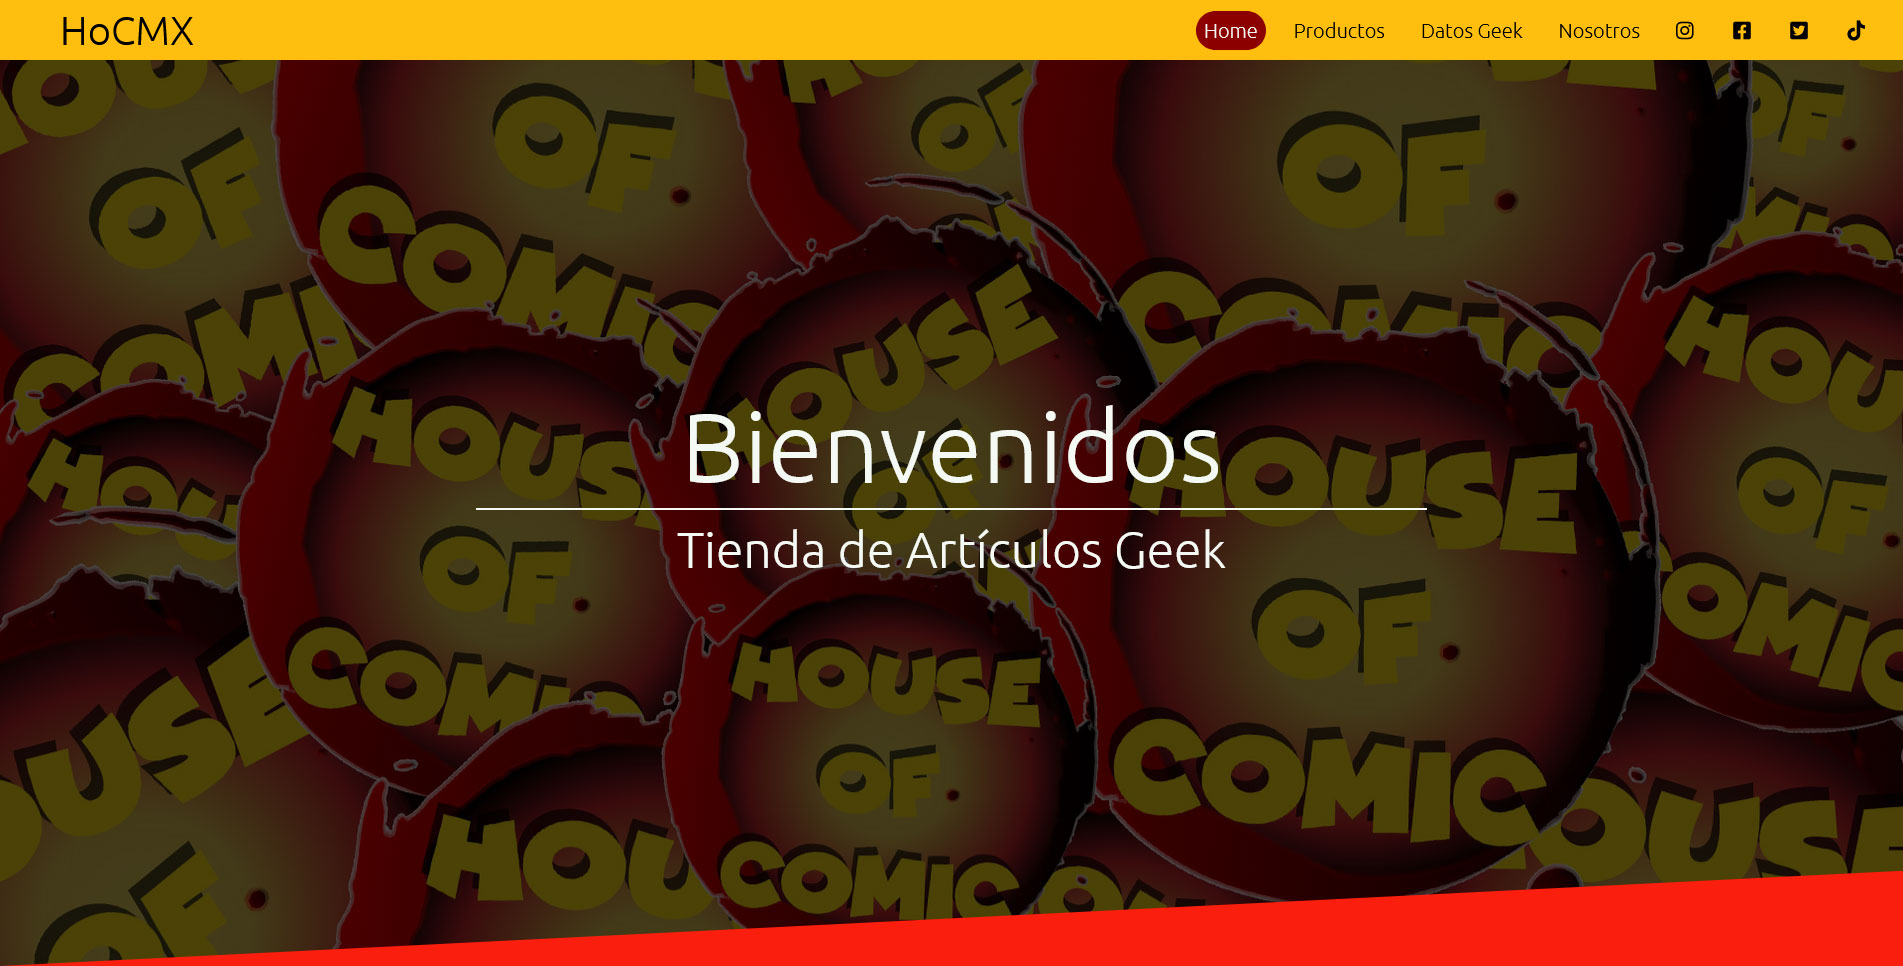
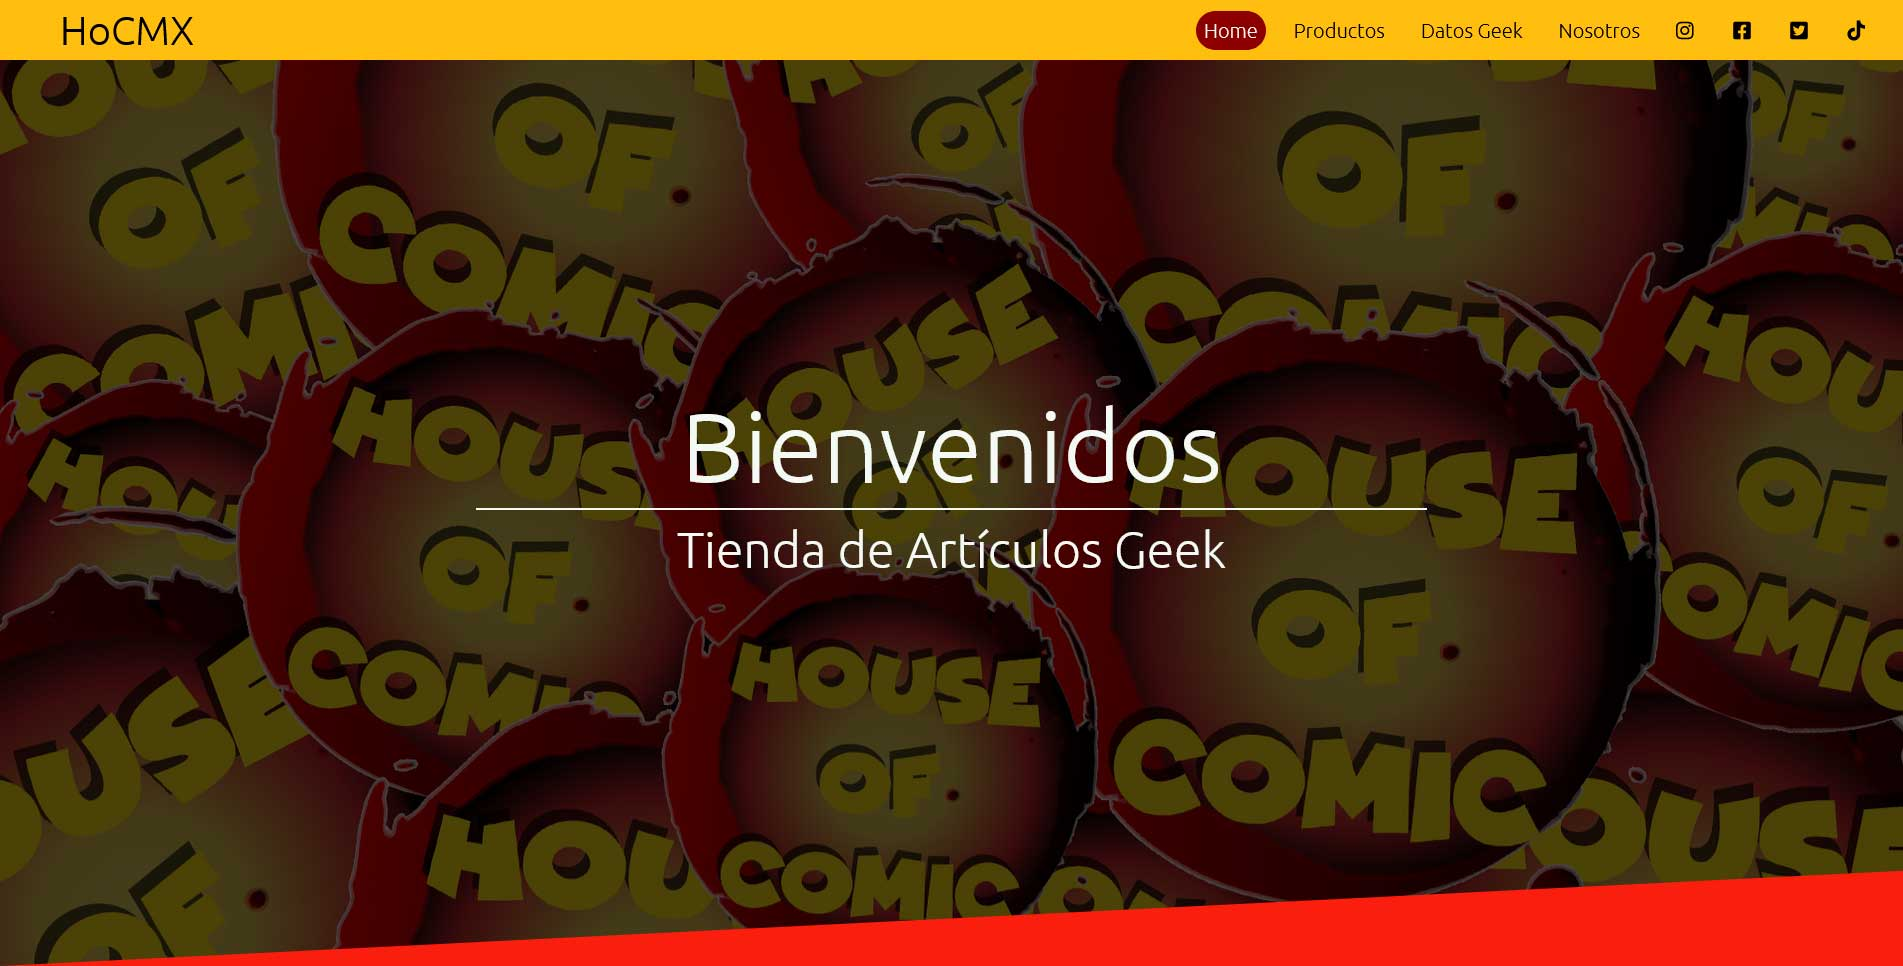
Add files via upload

Changed region(s): [[0.6201, 0.0, 0.8991, 0.0621], [0.031, 0.0, 0.093, 0.0621], [0.0, 0.9938, 0.062, 1.0]]

diff --git a/index.html b/index.html
@@ -61,7 +61,7 @@
 				<div class="proyectosIMG">
 					<img id='hoc' onclick='link01()' onmouseover="cambio01()" onmouseout="regreso01()" src="img/proyectos/01.jpg" alt="Tienda en Línea">
 					<img id='aj' onclick='link02()' onmouseover="cambio02()" onmouseout="regreso02()" src="img/proyectos/02.jpg" alt="Artista Gráfica">
-					<img onclick='link00()' src="img/proyectos/00.jpg" alt="Próximamente">
+					<!--<img onclick='link00()' src="img/proyectos/00.jpg" alt="Próximamente">-->
 				</div>
 			</div>
 		</section>
@@ -82,8 +82,16 @@
 				<div class="tituloAbout">
 					<h2>Conociendo al Desarrollador</h2>
 				</div>
-				<p>Hola… yo soy <b>Fernando Juárez Aldorica</b>, licenciado en Informática egresado de la <b>FES-Cuautitlán</b> con inclinación hacia el <b>Desarrollo Web Front-End.</b> Cuento con experiencia en diseño de <b>Mockups</b> y desarrollo de <b>Landing Pages</b>, enfocado al <b>Marketing Digital.</b><br><br>Del lado de programación manejo <b>HTML5, CSS3 y JavaScript,</b> por el lado del diseño tengo conocimientos en <b>PhotoShop.</b></p>
-				<p><a href="portafolios.html">Portafolios</a></p>
+				<p>
+					Hola… yo soy <b>Fernando Juárez Aldorica</b>, licenciado en Informática egresado de la <b>FES-Cuautitlán</b> con inclinación hacia el <b>Desarrollo Web Front-End.</b> Cuento con experiencia en diseño de <b>Mockups</b> y desarrollo de <b>Landing Pages Responsivas</b>, enfocadas al <b>Marketing Digital.</b>
+					<br><br>
+					Del lado de programación manejo <b>HTML5, CSS3 y JavaScript,</b> por el lado del diseño tengo conocimientos en <b>PhotoShop.</b>
+					<br><br>
+					<b>!No lo dudes y contactame¡</b>
+					<br><br>
+					Juntos hagamos que tu <b>marca</b> o <b>negocio</b> llegue a más personas y planta bandera dentro del <b>internet.</b>
+				</p>
+				<!--<p><a href="portafolios.html">Portafolios</a></p>-->
 			</div>
 
 			<div class="imgAbout">

diff --git a/css/estilos.css b/css/estilos.css
@@ -86,7 +86,7 @@ body{
 	position:relative;
 	width: 100%;
 	height: 100vh;
-	background: url(../img/header.jpg);
+	background: url(../img/header01.jpg);
 	background-attachment: fixed;
 	background-position: center;
 	background-size: cover;
@@ -260,10 +260,11 @@ body{
 	height: 400px;
 	object-fit: cover;
 	cursor: pointer;
+	border-radius: 500px;
 }
 .about .imgAbout img:hover{
-	transform: scale(1.2);
 	transition: 0.5s;
+	border-radius: 500px;
 }
 .about .imgAbout #aboutImg02{
 	display: none;
@@ -364,6 +365,11 @@ body{
 	font-size: 25px;
 	color:var(--negro);
 	z-index: 9999;
+}
+.home:hover{
+	border: 3px solid white;
+	background: black;
+	color:white;
 }
 
 /*DIAGONALES*/
